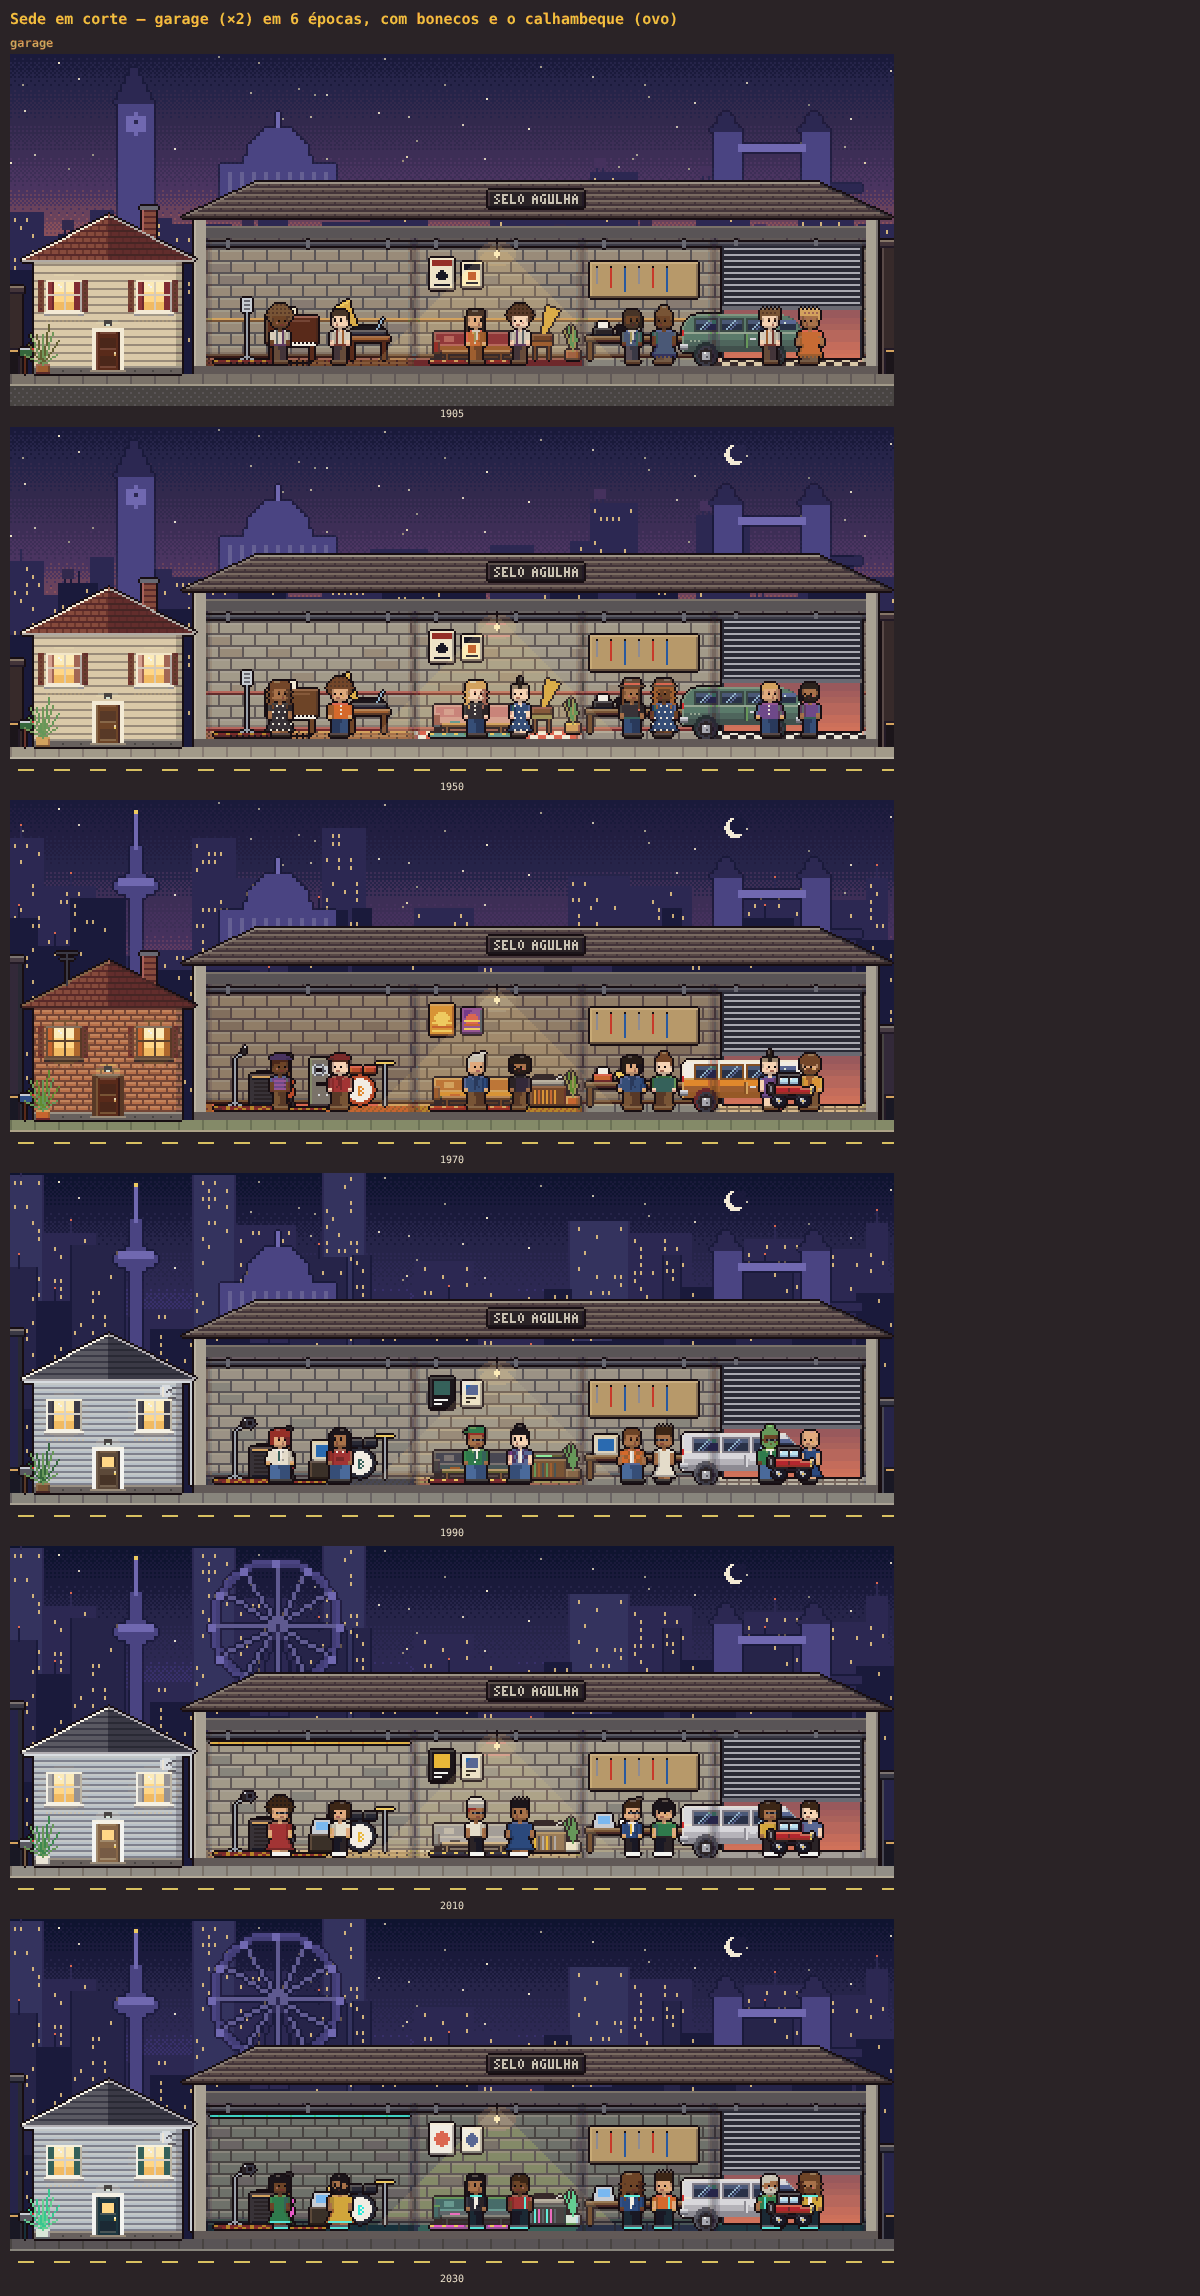
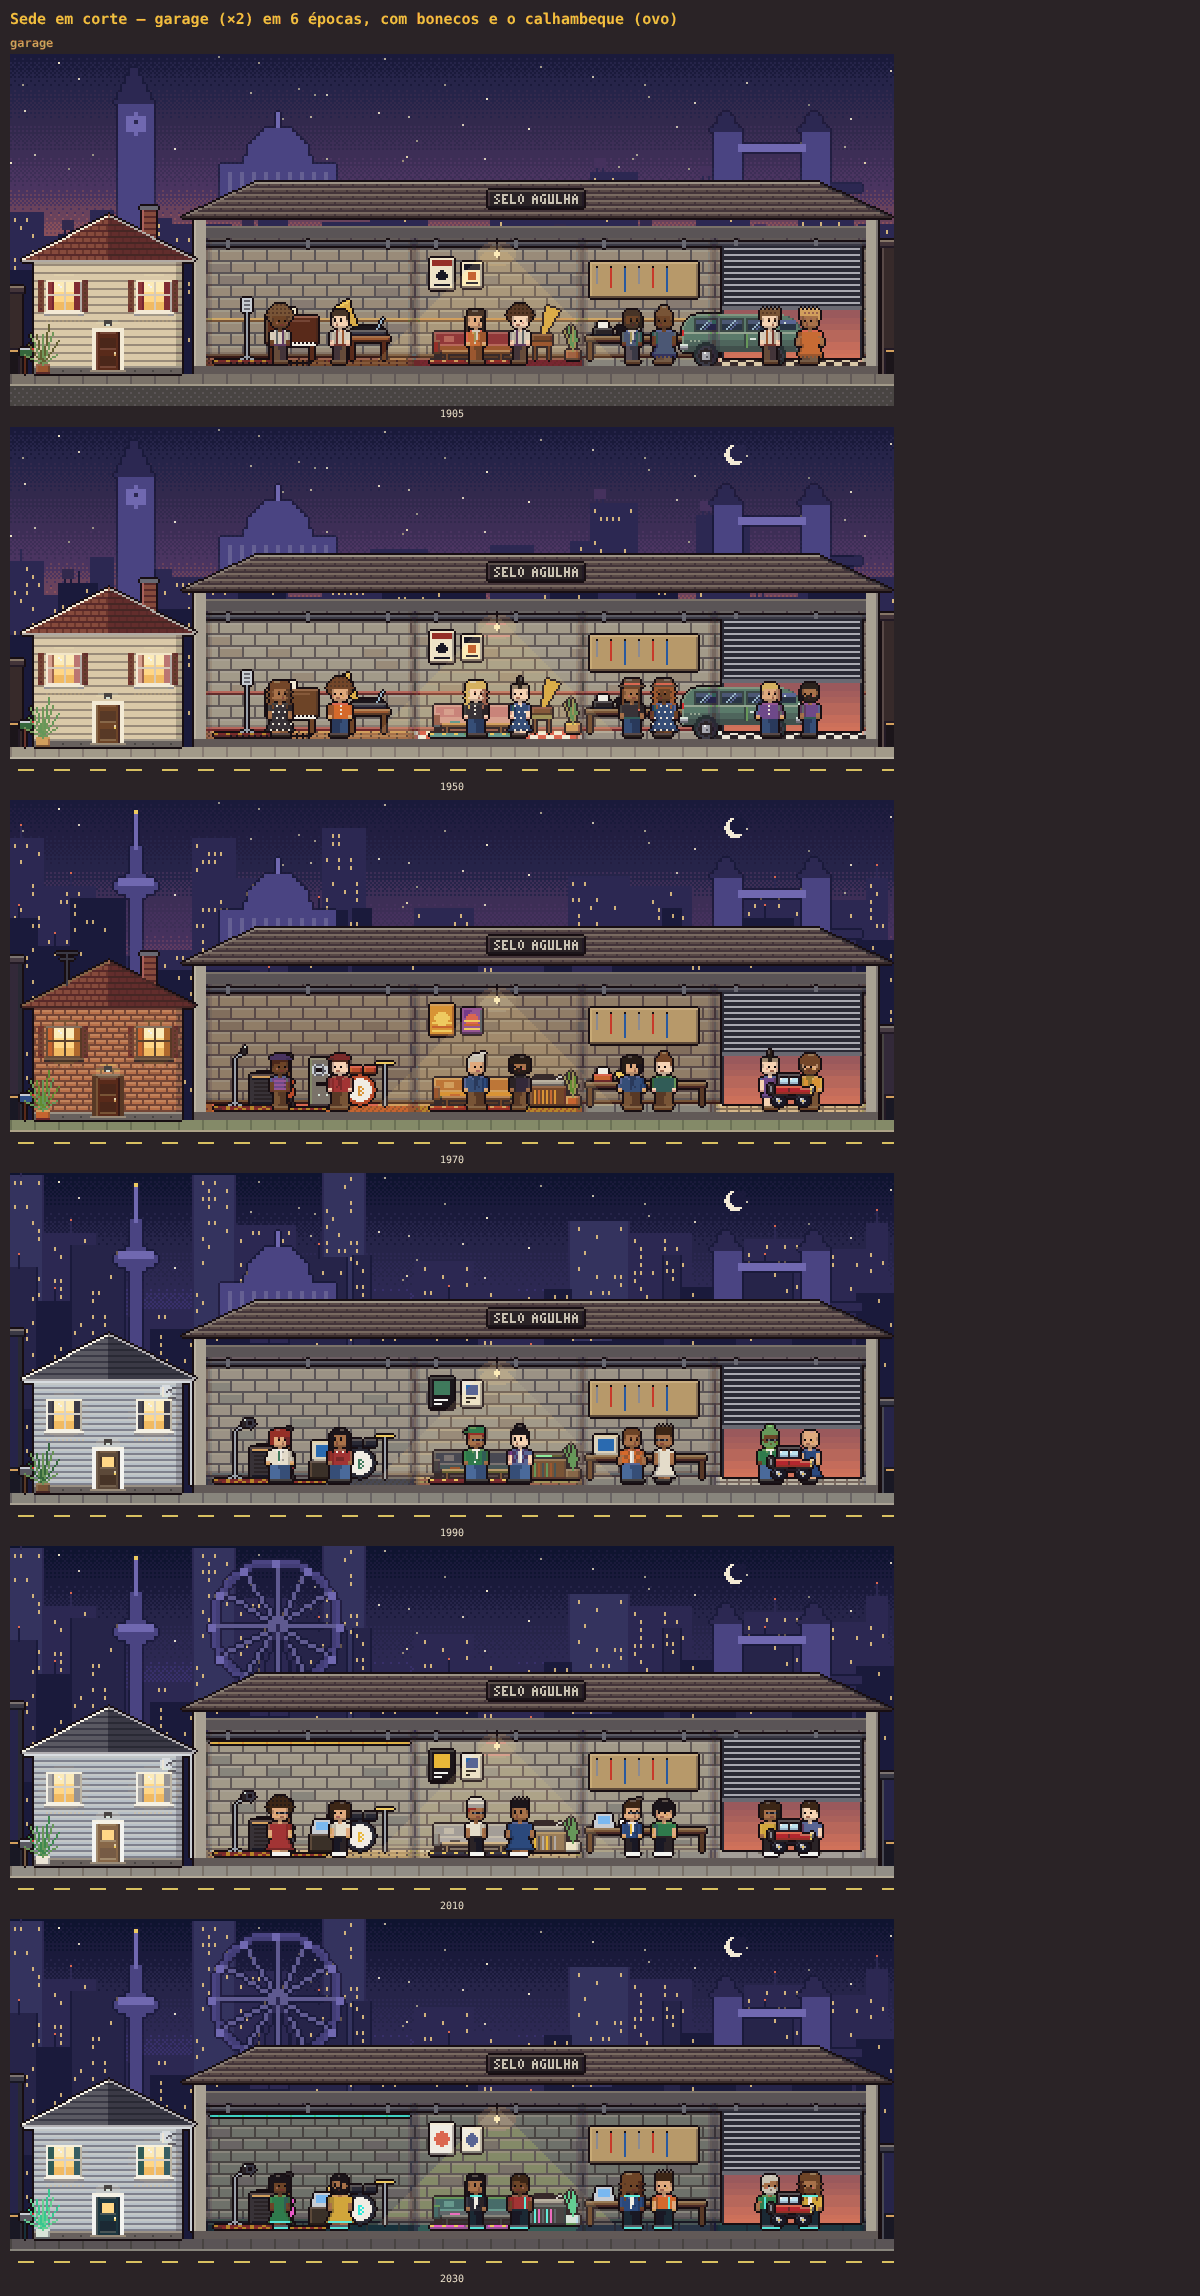
Garagem: com o calhambeque (ovo) na vaga, ele substitui a van
Os dois não cabem na vaga da porta de enrolar e o calhambeque era desenhado por
cima da van. drawHqCutaway27 marca Plan27.garageTaken quando há objeto na vaga
'garage' e a pintura da sede deixa a van de fora. Folhas hqzoom/hq-garage
(depois) regeradas.

Claude-Session: https://claude.ai/code/session_011XM6gk992aeaeJ7tjK8svn

diff --git a/src/ui/ps/hqpx27.ts b/src/ui/ps/hqpx27.ts
@@ -49,6 +49,8 @@ export interface Plan27 {
   crown: [number, number] | null;
   /** r27 INT: caixa do toca-discos/gramofone do lounge [x, y, w, h] (preenchida ao pintar; clique do ovo) */
   gramo?: [number, number, number, number];
+  /** R29: a vaga da garagem está ocupada por um objeto extra (calhambeque do ovo) — a van não é pintada */
+  garageTaken?: boolean;
 }
 export interface Spot27 { id: string; room: Room25; x: number; y: number; pose: Pose; dir: 'SE' | 'SW'; sprite: Sprite25 }
 export interface More27 { room: Room25; x: number; y: number; n: number }
@@ -842,7 +844,7 @@ function furnish(g: Ctx, c: Cell27): void {
         for (let yy = y + 4 + Math.floor(dh * 0.55); yy < y + 4 + dh; yy++) for (let xx = dx + 1; xx < dx + dw - 1; xx++) p.put(xx, yy, mix(C('#3a2d62'), C('#e07a5a'), (yy - y) / h));
         for (let yy = y + 5; yy < y + 4 + Math.floor(dh * 0.55); yy += 3) p.hline(dx + 1, dx + dw - 2, yy, C('#a8a8b0'));
         p.rect(dx, y + 4 + Math.floor(dh * 0.55), dw, 2, C('#6a6a72'));
-        van(g, x - 18, fy);
+        if (!pl.garageTaken) van(g, x - 18, fy); // R29: com o calhambeque na vaga, ele substitui a van (não cabem os dois)
         break;
       }
       sign(g, x + Math.floor(w * (w < 140 ? 0.55 : 0.68)), w < 140 ? y + 30 : y + 7, pl.brand, Math.floor(w * 0.8), true);
@@ -1382,6 +1384,7 @@ export interface DrawOpts27 { /** objetos extras (ovos) */ props?: PropIn27[]; /
 export function drawHqCutaway27(canvas: HTMLCanvasElement, model: Pick<HqModel25, 'hq' | 'year' | 'rooms'> & { city?: string; brand?: string; seedKey?: string; facadeYear?: number; units?: { id: string; status: 'open' | Lock27 }[] }, o: DrawOpts27 = {}): Drawn27 {
   const units = model.units ? Object.fromEntries(model.units.map((u) => [u.id, u.status])) : undefined;
   const plan = plan27({ hq: model.hq, year: model.year, facadeYear: model.facadeYear, city: model.city, brand: model.brand, seedKey: model.seedKey, minW: o.minW, units });
+  if (plan.shell === 'garage' && (o.props ?? []).some((pr) => pr.slot === 'garage')) plan.garageTaken = true;
   const px = paint27(plan);
   canvas.width = plan.W; canvas.height = plan.H;
   const ctx = canvas.getContext('2d');

diff --git a/tools/arte29c/sheet.ts b/tools/arte29c/sheet.ts
@@ -49,11 +49,10 @@ if (part === 'hqzoom') {
   const r = sec('garage — recorte');
   for (const y of YEARS) {
     const cv = document.createElement('canvas');
-    drawHqCutaway27(cv, { hq: 0, year: y, rooms: [], city: 'london', brand: 'SELO AGULHA', seedKey: 'arte29c|garage' }, {});
+    const { drawJalopy } = await import('../../src/ui/sys/eggs27');
+    drawHqCutaway27(cv, { hq: 0, year: y, rooms: [], city: 'london', brand: 'SELO AGULHA', seedKey: 'arte29c|garage' }, { props: y >= 1965 ? [{ slot: 'garage', w: 26, h: 16, draw: drawJalopy }] : [] });
     const pl = plan27({ hq: 0, year: y, city: 'london' });
     const lob = pl.cells.find((c) => c.kind === 'lobby')!;
-    const { drawJalopy } = await import('../../src/ui/sys/eggs27');
-    if (y >= 1965) { const at = [lob.x + Math.max(6, (lob.w - 26) >> 1), lob.y + lob.h - 3 - 16]; drawJalopy(cv.getContext('2d')!, at[0], at[1], 0); }
     r.append(cell(crop(cv, Math.max(0, pl.bx - 96), pl.gy - 92, 104, 108, 3), `${y} casa`));
     r.append(cell(crop(cv, lob.x - 30, pl.gy - 92, lob.w + 36, 108, 3), `${y} van`));
   }

diff --git a/docs/arte29-consistencia.md b/docs/arte29-consistencia.md
@@ -66,6 +66,8 @@ Não é troca de estilo: o alvo é o pixel art que já existe (o HD foi revertid
 - `crown27` (coroa da torre/campus) → contorno INK (o chanfro do vidro contemporâneo agora recorta para transparente,
   em vez de pintar a cor do céu por cima).
 - `sign` (letreiros da sede e dos interiores) → placa com contorno INK.
+- Calhambeque x van na garagem: o ovo estacionava por cima da van (não cabem os dois na vaga) → com o calhambeque
+  ativo, ele substitui a van (`Plan27.garageTaken`, marcado por `drawHqCutaway27` quando há objeto na vaga 'garage').
 - Os interiores da cidade (`interior27.ts`) reaproveitam `prim27` (rua, vizinhos, postes, placa) e ficam iguais.
 
 ### Ovos da sede e do mapa (`src/ui/sys/eggs27.ts`)
@@ -130,7 +132,6 @@ Não é troca de estilo: o alvo é o pixel art que já existe (o HD foi revertid
 - **Ícones e cartões r29** (insígnias, papéis, capas, logos, relíquias, pessoas): já seguiam o estilo (contorno
   `OUT28`, `bevel`); conferidos nas folhas e mantidos.
 - **Destaques de seleção no mapa** (`strokeStyle` do lote/prédio escolhido): é interface (piscante), não arte.
-- **Calhambeque x van na garagem**: o ovo continua estacionado na vaga da porta, na frente da van (já era assim).
 - `src/ui/map.ts` e `src/ui/hq.ts` (mapa-múndi vetorial e a sede antiga, fora das telas atuais) não foram mexidos.
 - `cenas20.vdisc20/ground20` (elipses com antialiasing) não têm mais quem chame — ficaram como estavam.
 
